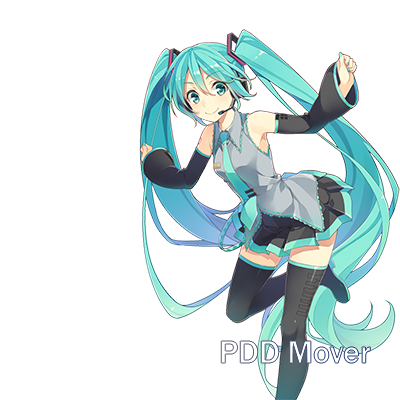
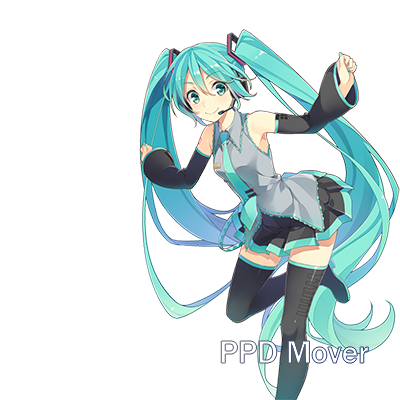
Fixed image, fixed styling, added button
The button still does not have any use, the image had a mistake in the writing so i fixed it, i also changed the layout of the buttons

Changed region(s): [[0.6, 0.84, 0.93, 0.93]]

diff --git a/PPD Mover/PPDmoverV2.py b/PPD Mover/PPDmoverV2.py
@@ -8,7 +8,6 @@ import zipfile
 from tkinter import font
 from PIL import ImageTk, Image
 
-
 # MAIN WINDOW SETTINGS
 gui = tk.Tk()
 gui.geometry("450x450")
@@ -20,21 +19,20 @@ Underlined = font.Font(gui, "TkDefaultFont")
 Underlined.configure(underline=True)
 
 # canvas setup
-# noinspection LongLine
 canv = tk.Canvas(gui, width=450, height=450, bg="#4f5454", bd=0, highlightcolor="#4f5454", highlightbackground="#4f5454")
 Miku1 = Image.open(os.path.join(sys.path[0], "IMG", "Hatsune miku ppd 1.png"))
 MikuImage = ImageTk.PhotoImage(Miku1)
 backgroundMiku = canv.create_image(250, 250, image=MikuImage)
-selectDirOutline = canv.create_text(79, 28, text="Select Directory", font=Underlined, fill="#4b5676")
-selectDirText = canv.create_text(80, 29, text="Select Directory", font=Underlined, fill="White")
-selZipOutline = canv.create_text(79, 128, text="Select .zip file", font=Underlined, fill="#4b5676")
-selZipText = canv.create_text(80, 129, text="Select .zip file", font=Underlined, fill="White")
-selMp4Outline = canv.create_text(79, 228, text="Select the mp4", font=Underlined, fill="#4b5676")
-selMp4Text = canv.create_text(80, 229, text="Select the mp4", font=Underlined, fill="White")
-foldTextOutline = canv.create_text(242, 228, text="Select the song folder", font=Underlined, fill="#4b5676")
-selFoldText = canv.create_text(243, 229, text="Select the song folder", font=Underlined, fill="White")
-removeZipOutline = canv.create_text(74, 381, text="Delete .zip", fill="#4b5676")
-removeZipText = canv.create_text(75, 382, text="Delete .zip", fill="White")
+selectDirOutline = canv.create_text(76, 28, text="Select Directory", font=Underlined, fill="#4b5676")
+selectDirText = canv.create_text(77, 29, text="Select Directory", font=Underlined, fill="White")
+selZipOutline = canv.create_text(76, 128, text="Select .zip file", font=Underlined, fill="#4b5676")
+selZipText = canv.create_text(77, 129, text="Select .zip file", font=Underlined, fill="White")
+selMp4Outline = canv.create_text(76, 228, text="Select the mp4", font=Underlined, fill="#4b5676")
+selMp4Text = canv.create_text(77, 229, text="Select the mp4", font=Underlined, fill="White")
+foldTextOutline = canv.create_text(252, 228, text="Select the song folder", font=Underlined, fill="#4b5676")
+selFoldText = canv.create_text(253, 229, text="Select the song folder", font=Underlined, fill="White")
+removeZipOutline = canv.create_text(65, 381, text="Delete .zip", fill="#4b5676")
+removeZipText = canv.create_text(64, 382, text="Delete .zip", fill="White")
 
 
 canv.place(x=0, y=0)
@@ -195,17 +193,14 @@ def songsdirsave():
 
 getstartingdirpath()
 
-# noinspection LongLine
 songsSelectEntry = tk.Entry(gui, textvariable=songsPath, state=DISABLED, disabledbackground="#5a676b", disabledforeground="white")
-songsSelectEntry.place(x=20, y=40)
+songsSelectEntry.place(x=15, y=40)
 
-# noinspection LongLine
 songsFolderFind = tk.Button(gui, text="select", command=getsongsdirpath, activebackground="#55d1d0", background="#87e5cf")
-songsFolderFind.place(x=160, y=36)
+songsFolderFind.place(x=16, y=68)
 
-# noinspection LongLine
 songsFolderSave = tk.Button(gui, text="save folder", command=songsdirsave, activebackground="#55d1d0", background="#87e5cf")
-songsFolderSave.place(x=20, y=68)
+songsFolderSave.place(x=160, y=36)
 
 # ZIP FILE SELECTION
 
@@ -259,7 +254,6 @@ def unzip():
             messagebox.showwarning("No location selected", "You haven't selected a directory to move the zip file to, p"
                                                            "lease select one and try again")
         else:
-            # noinspection LongLine
             messagebox.showerror("Location not found", "the location you selected to move the zip file into was not found")
 
 
@@ -271,7 +265,6 @@ def movefile():
             os.remove(zipPath.get().rstrip("\n"))
     else:
         if filezip == "":
-            # noinspection LongLine
             messagebox.showwarning("No file selected", "You have not selected a zip file, please select one and try again")
         else:
             messagebox.showerror("Zip file not found", "the selected zip file was not found by the program")
@@ -280,19 +273,17 @@ def movefile():
 # UI FOR ZIP SELECT
 
 
-# noinspection LongLine
 zipSelectEntry = tk.Entry(gui, textvariable=zipPath, state=DISABLED, disabledbackground="#5a676b", disabledforeground="white")
-zipSelectEntry.place(x=20, y=140)
+zipSelectEntry.place(x=15, y=140)
 
 zipFileFind = tk.Button(gui, text="Browse files", command=getzip, activebackground="#55d1d0", background="#87e5cf")
-zipFileFind.place(x=160, y=136)
+zipFileFind.place(x=16, y=168)  # 16, 168
 
 moveFileButton = tk.Button(gui, text="Move", command=movefile, activebackground="#55d1d0", background="#87e5cf")
-moveFileButton.place(x=20, y=168)
+moveFileButton.place(x=160, y=136)  # 160, 136
 
-# noinspection LongLine
 changeDirectory = tk.Button(gui, text="Change directory", command=getstartingfolder, activebackground="#55d1d0", background="#87e5cf")
-changeDirectory.place(x=80, y=168)
+changeDirectory.place(x=96, y=168)
 
 
 # SAVES DELETE BUTTON
@@ -305,9 +296,8 @@ def deletesaves():
 # SAVES DELETE BUTTON UI
 
 
-# noinspection LongLine
 deleteSavesButton = tk.Button(text="delete saves", command=deletesaves, activebackground="#55d1d0", background="#87e5cf")
-deleteSavesButton.place(x=20, y=322)
+deleteSavesButton.place(x=16, y=322)
 
 # REMOVE ZIP FILE
 removeZipFile.set(False)
@@ -339,9 +329,8 @@ def checkremovezip():
 
 checkremovezipinitial()
 
-# noinspection LongLine
 removeZipBox = tk.Checkbutton(variable=removeZipFile, command=checkremovezip, onvalue=True, offvalue=False, background="#4f5454", activebackground="#4f5454", selectcolor="#5a676b", fg="White", activeforeground="White")
-removeZipBox.place(x=20, y=370)
+removeZipBox.place(x=10, y=370)
 
 # VIDEO SELECT
 
@@ -374,7 +363,6 @@ def movevideo():
     video = tk.StringVar()
     song = tk.StringVar()
     if videoPath.get() == "" and selectedSongPath.get() == "":
-        # noinspection LongLine
         messagebox.showwarning("no files selected", "you need to select a video and the destination for the video before proceeding")
         return
     else:
@@ -403,19 +391,20 @@ def movevideo():
 # UI FOR THE VIDEO SELECT
 
 
-# noinspection LongLine
 selectVideoEntry = tk.Entry(gui, state=DISABLED, textvariable=videoPath, disabledbackground="#5a676b", disabledforeground="white")
-selectVideoEntry.place(x=20, y=240)
+selectVideoEntry.place(x=15, y=240)
 
-# noinspection LongLine
 selectSongEntry = tk.Entry(gui, state=DISABLED, textvariable=selectedSongPath, disabledbackground="#5a676b", disabledforeground="white")
-selectSongEntry.place(x=180, y=240)
+selectSongEntry.place(x=190, y=240)
 
 selectVideoButton = tk.Button(text="Select", command=selectvideo, activebackground="#55d1d0", background="#87e5cf")
-selectVideoButton.place(x=55, y=268)
+selectVideoButton.place(x=16, y=268)
+
+selectStartingVideoDir = tk.Button(text="Change directory", activebackground="#55d1d0", background="#87e5cf")
+selectStartingVideoDir.place(x=65, y=268)
 
 selectSongButton = tk.Button(text="Select folder", command=selectsong, activebackground="#55d1d0", background="#87e5cf")
-selectSongButton.place(x=205, y=268)
+selectSongButton.place(x=190, y=268)
 
 moveVideoButton = tk.Button(text="Move video", command=movevideo, activebackground="#55d1d0", background="#87e5cf")
 moveVideoButton.place(x=325, y=235)
